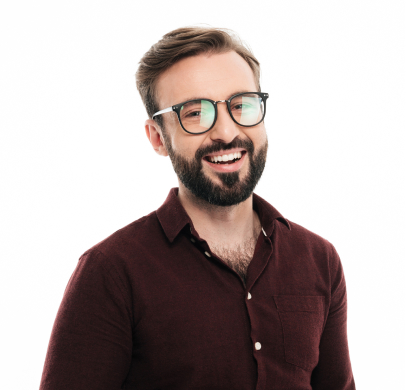
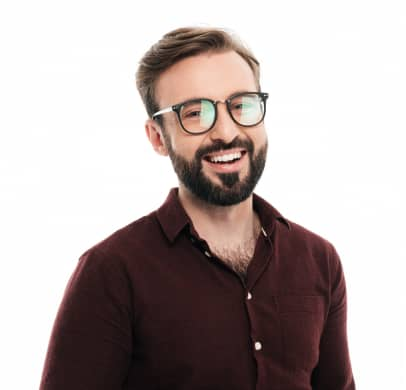
Optymalizacja
Optymalizacja zdjęć i wprowadzenie szkieletu html

diff --git a/index.html b/index.html
@@ -1,3 +1,27 @@
-<html>
-    
+<!DOCTYPE html>
+<html lang="pl">
+  <head>
+    <meta charset="utf-8" />
+    <meta name="Webstudio" content="Efektywne rozwiązania dla biznesu" />
+  </head>
+  <body>
+    <header>
+      <nav>
+        <!-- Tutaj ma być górne menu-->
+        <!-- Logo to tekst a nie obrazek -->
+      </nav>
+      <!-- Kontakty poczta i telefon jako linki - POZA NAV -->
+    </header>
+    <h1>
+      <!-- Tutaj będzie zamóg usługę, jako przycisk = button -->
+    </h1>
+    <h2>
+      <!-- nagłówki sekcji oznaczane tagiem h2-->
+      <!-- img mają trybut alt oraz width i height-->
+      <!-- grupy elementów tego samego typu są gromadzone na listach <ul> -->
+    </h2>
+  </body>
+  <footer>
+    <!-- Tutaj używamy tagu address-->
+  </footer>
 </html>
